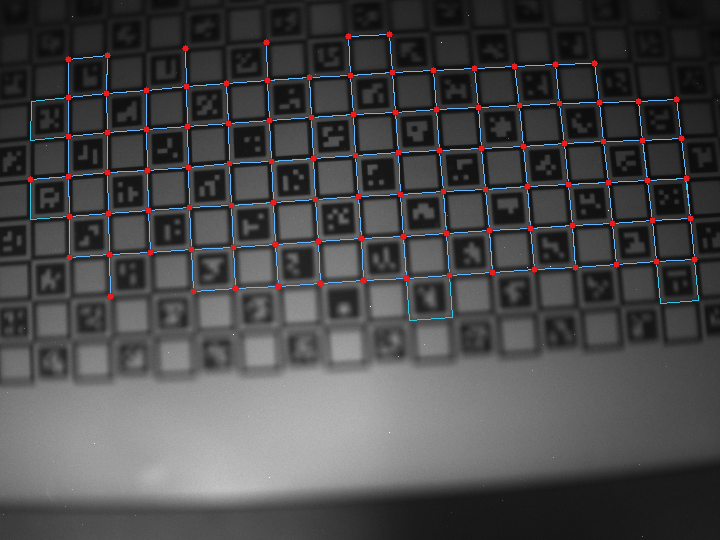
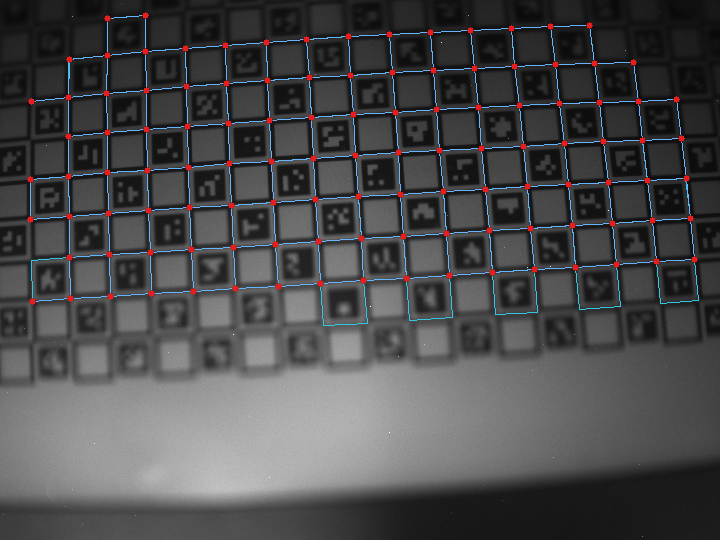
Refresh the published performance report
`scripts/gen-perf-data.sh` regenerated against the current build. The
PuzzleBoard frame's decode drops 4.64 -> 1.26 ms and its end-to-end 7.47 -> 3.53
ms, which is the decode rework landing on the published numbers.

The editorial notes had to move with the data, since three of them now said the
opposite of what the measurements show:

- The PuzzleBoard card claimed "the decode stage is the dominant owned cost on
  this frame". It is not any more — the grid build is.
- The large-ChArUco card claimed decode was "several times the cost of corner
  detection". It is now half of it.
- The page header and small-ChArUco card were adjusted to match: on the denser
  boards the owned grid build has caught up with corner detection, and the three
  stages on the small frame are close to balanced.

The two ChArUco frames' grid-build and decode figures rose slightly. That is the
#86 fix — ChArUco no longer disables the chessboard's wrong-label geometry
check — and is a correctness cost, not a regression to recover. Said so in
`docs/development/performance.md` rather than leaving it to look like drift.

The same file's per-stage table and Tier 1 / Tier 2 backlog entries are updated
to the refreshed numbers; the PuzzleBoard entry now records what was done and
narrows what remains to the declared-full-master origin-rectangle readout.

Also drops a redundant intra-doc link target in the new stage-timing harness,
restoring the workspace's zero-doc-warning gate.
[…]

diff --git a/.github/pages/performance/index.html b/.github/pages/performance/index.html
@@ -76,8 +76,8 @@
   <header class="top">
     <h1>Performance</h1>
     <div class="sub">Where the milliseconds go, measured per image on public sample boards — not generic
-      aggregates. Cost is regime-dependent: corner detection dominates sparse boards, the owned grid build and
-      decode take over on dense ones.</div>
+      aggregates. Cost is regime-dependent: corner detection dominates sparse boards, while the owned grid build
+      takes over as boards get denser.</div>
   </header>
   <div class="chips" id="chips"></div>
 
@@ -85,8 +85,8 @@
   <div class="desc">Per-stage p50 from <code>full_stage_timing</code>, which runs the <b>complete</b> detector on each
     public image — ChArUco (corner detection → grid build → marker decode) for the two ArUco-marked boards, a plain
     chessboard (corner detection → grid build) for the marker-free board, and a PuzzleBoard (corner detection → grid
-    build → edge-dot 501×501 master decode) for the self-identifying synthetic board, whose decode sweep dominates its
-    cost. Corners are detected once and reused, so the grid/decode bars never re-count corner detection.</div>
+    build → edge-dot decode against the 501×501 master) for the self-identifying synthetic board. Corners are detected
+    once and reused, so the grid/decode bars never re-count corner detection.</div>
   <div class="legend">
     <span><i class="sw" style="background:var(--amber)"></i> corner detection (external)</span>
     <span><i class="sw" style="background:var(--blue)"></i> grid build (owned)</span>

diff --git a/crates/calib-targets-bench/src/bin/puzzleboard_stage_timing.rs b/crates/calib-targets-bench/src/bin/puzzleboard_stage_timing.rs
@@ -1,7 +1,7 @@
 //! Per-stage timing harness for `PuzzleBoardDetector::detect`.
 //!
 //! Companion to `topo_stage_timing` / `charuco_stage_timing`: installs the
-//! shared [`TimingLayer`](calib_targets_bench::span_timing::TimingLayer),
+//! shared [`calib_targets_bench::span_timing::TimingLayer`],
 //! runs the production `detect` path over warmup + timed repeats on a public
 //! synthetic fixture, and attributes the wall time across the pipeline's
 //! stages.

diff --git a/docs/development/performance.md b/docs/development/performance.md
@@ -69,24 +69,29 @@ Per-stage p50 on the four public report frames (`full_stage_timing`, M4 Pro,
 
 | Frame | px | corner detect | grid build | decode | end-to-end |
 |---|---|---:|---:|---:|---:|
-| `mid.png` (chessboard) | 1024×576 | **1.17** | 0.38 | — | 1.56 |
-| `small.png` (ChArUco) | 720×540 | **1.08** | 0.56 | 0.73 | 2.37 |
-| `author_like_oblique.png` (PuzzleBoard) | 640×480 | 0.79 | 2.04 | **4.64** | 7.47 |
-| `large.png` (ChArUco) | 2048×1536 | **6.45** | 2.98 | 2.13 | 11.56 |
+| `mid.png` (chessboard) | 1024×576 | **0.89** | 0.33 | — | 1.21 |
+| `small.png` (ChArUco) | 720×540 | 0.92 | 0.72 | **0.97** | 2.61 |
+| `author_like_oblique.png` (PuzzleBoard) | 640×480 | 0.67 | **1.60** | 1.26 | 3.53 |
+| `large.png` (ChArUco) | 2048×1536 | **4.50** | 3.38 | 2.23 | 10.11 |
 
-Corner detection is the largest stage on the chessboard and ChArUco rows; on the
-ChArUco frames decode (post-#71) is now *smaller* than both corner detection and
-grid build. The PuzzleBoard row is the exception: its full 501² master sweep
-makes decode the dominant stage — several times corner detection — and its
-oblique, corner-dense 640×480 frame also drives an outsized grid build for its
-size (see Tier 3).
+Corner detection leads on the chessboard and the large ChArUco frame. Decode
+leads on no frame: on the ChArUco rows it has been the smallest stage since #71,
+and the PuzzleBoard row — where the master sweep used to dominate at 4.6 ms —
+now spends more in the grid build than in decode. The PuzzleBoard frame's
+oblique, corner-dense 640×480 image drives an outsized grid build for its size
+(see Tier 3).
+
+The `small.png` grid-build and decode figures rose slightly when ChArUco stopped
+disabling the chessboard's wrong-label geometry check (#86). That is a
+correctness cost, not a regression to recover.
 
 ### Tier 1 — ChESS corner detection (external `chess-corners`)
 
-Corner detection is **the largest stage on every public frame** — ~65–75 % of a
-plain-chessboard end-to-end, and still the top stage on the ChArUco frames now
-that decode has shrunk. It scales with image area (`large.png`, 3 MP, ≈5.9 ms;
-the ~0.4–1 MP frames ≈0.8–1.2 ms). The `disk-fit` orientation method roughly
+Corner detection is **the largest stage on most public frames** — ~70 % of a
+plain-chessboard end-to-end, and the top stage on the large ChArUco frame. It
+scales with image area (`large.png`, 3 MP, ≈4.5 ms; the ~0.4–1 MP frames
+≈0.7–0.9 ms). It no longer leads on the two denser boards, where the owned grid
+build has caught up with it. The `disk-fit` orientation method roughly
 **doubles** corner-detection cost vs `ring-fit` — the standing reason `RingFit`
 is the default.
 
@@ -190,28 +195,30 @@ rewrite). **Every item is correctness-first: none may trade a false-positive
 risk for speed** — a wrong `(i, j)` label is unrecoverable for calibration (the
 asymmetric detection contract). Optimization work is *planned* here, not yet
 applied. With ChArUco decode now a minor stage, the two live owned candidates
-are the PuzzleBoard sweep and the dense-board grid build; the dominant cost
-across all regimes remains the external corner detector.
+are the dense-board grid build and edge sampling; the external corner detector
+still leads on the sparse and high-resolution frames.
 
 1. **Corner-detection configuration levers (Tier 1, highest leverage).**
-   *Evidence (refreshed):* the single largest stage on *every* public frame —
-   ~65–75 % of a plain-chessboard end-to-end and still the top stage on the
-   ChArUco frames now that decode shrank; ≈5.9 ms on the 3 MP frame; `disk-fit`
-   ≈2× `ring-fit`. *Approach:* keep `RingFit` default; offer optional downscale
+   *Evidence (refreshed):* the largest stage on the plain-chessboard frame
+   (~70 % of its end-to-end) and on the 3 MP frame (≈4.5 ms); `disk-fit`
+   ≈2× `ring-fit`. On the two denser boards the owned grid build has caught up
+   with it. *Approach:* keep `RingFit` default; offer optional downscale
    for large frames and ROI when a board prior exists. *Risk:* downscale trades
    corner-localization precision — validate recall/precision, never silently.
-2. **PuzzleBoard decode (Tier 2 — top remaining owned decode cost).**
-   *Evidence:* `puzzleboard_stage_timing` on a public fixture; the class
-   precompute in `decode/tables.rs` and the soft origin walk in `decode/soft.rs`.
-   *Remaining:* two distinct targets, and which one dominates depends on the
-   declared board size — the precompute leads up to ~130 squares, the soft
-   origin walk past that. (a) The precompute is `O(501 · N)` but an observation
-   only reaches the tables through `(bit, lookup mod period)`, so observations
-   sharing those residues can be grouped and applied once, bounding it by
-   `O(min(N, 6w) · 501)` for a `w`-square window. (b) The soft origin walk could
-   take the CRT collapse if its score were accumulated in fixed-point integers
-   rather than `f32`, which is what makes the separation exact. Optional `rayon`
-   over the 8 D4
+2. **PuzzleBoard decode — largely done.**
+   *Evidence:* `puzzleboard_stage_timing` and `decode::tests::decode_scaling_report`.
+   *Done:* the declared-board search became a restricted master search rather
+   than a separate correlation; the class precompute is now bounded by residue
+   groups rather than observation count (`O(N + min(N, 6w) · 501)`, flat in `N`);
+   and the soft scorer's log-likelihood moved to fixed point, which is what makes
+   the crossed-CRT separation exact and collapsed its `501²` origin walk to
+   `O(501)`. Default `Full + Soft` detect on the report fixture: 6.32 → 2.98 ms.
+   *Remaining:* only the declared-full-master case, where decode is still ~70 %
+   of `detect` — the `8 × 252k` origin-rectangle readout, which none of the three
+   changes reach because there is nothing left to restrict and the CRT collapse
+   does not apply to a sub-rectangle. It is pure table lookups and the natural
+   SIMD target, with little practical urgency since declaring a full-master board
+   conveys no information. Optional `rayon` over the 8 D4
    transforms; and the same fusion for `decode_fixed_board_soft` (the fixed-board
    shift-scan second pass, left untouched this round — different table shape, not
    a free reuse). *Risk:* the workspace has **zero parallelism** in its own code
